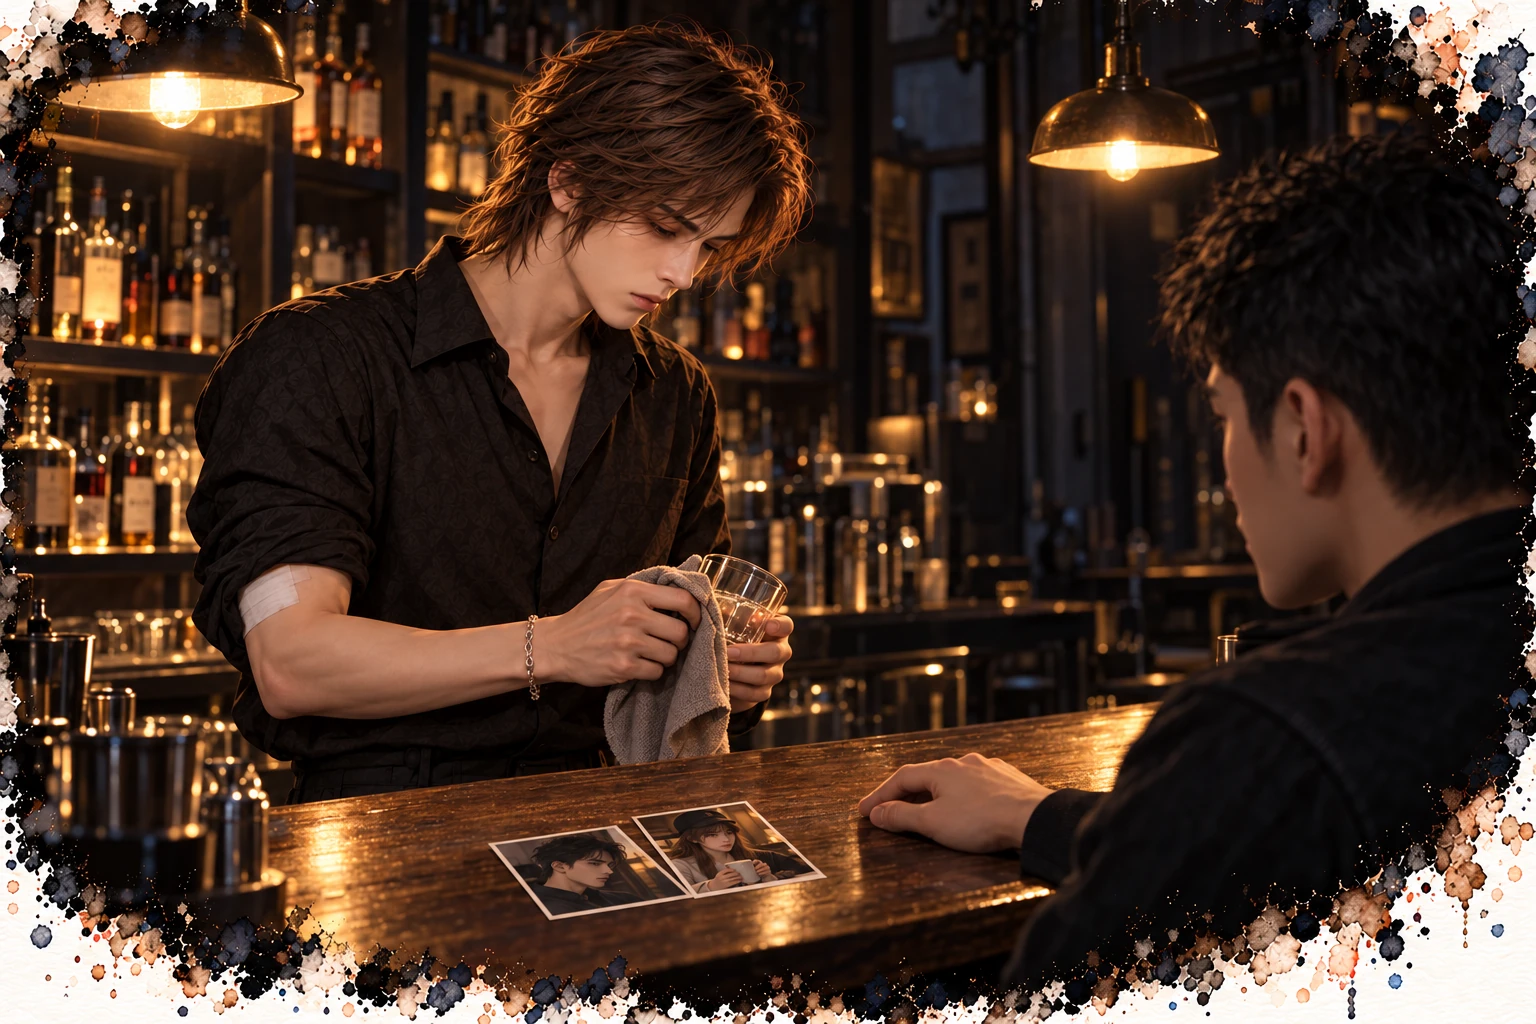
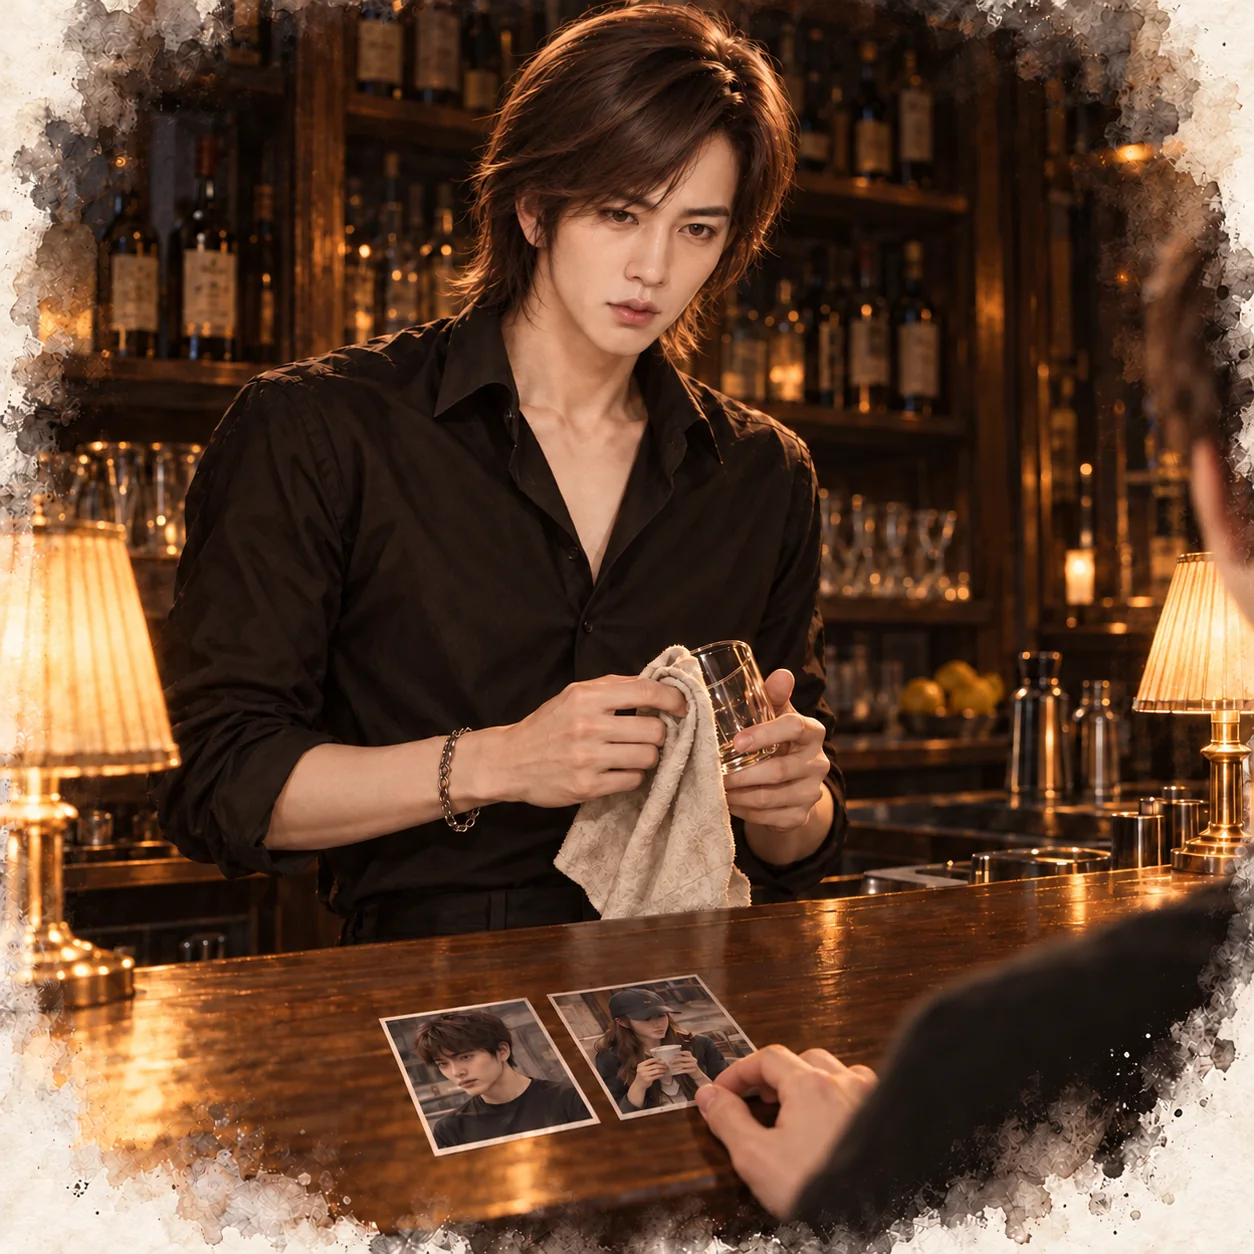
沒有招牌的酒吧 第一部第八章：替換江澈插圖
Claude-Session: https://claude.ai/code/session_01HUwf2ENyDuzceKaKYawxmj

diff --git a/novels/no-signboard-bar/chapter-08.html b/novels/no-signboard-bar/chapter-08.html
@@ -35,7 +35,7 @@
 <p>門關上了。</p>
 </section>
 <section class="pov pov-jiang" data-name="江澈">
-<div class="pov-opening"><h2 class="pov-title" id="pov-2"><span>敘事視角</span>江澈</h2><a class="pov-art" href="../../assets/novels/no-signboard-bar/chapter-08-jiang-che.webp" target="_blank" rel="noopener" aria-label="開啟江澈插圖大圖"><img src="../../assets/novels/no-signboard-bar/chapter-08-jiang-che.webp" alt="江澈在昏暗的酒吧擦著杯子，陸曜坐在對面，兩張照片平放在吧檯上。" width="1536" height="1024" loading="lazy" decoding="async"><span class="pov-cap">他們知道，要讓你聽話，最快的辦法就是她。</span></a><div class="pov-intro"><p>她那個問題，我想了一整個下午。不說，到底是在保護誰？</p>
+<div class="pov-opening"><h2 class="pov-title" id="pov-2"><span>敘事視角</span>江澈</h2><a class="pov-art" href="../../assets/novels/no-signboard-bar/chapter-08-jiang-che.webp?v=20261013" target="_blank" rel="noopener" aria-label="開啟江澈插圖大圖"><img src="../../assets/novels/no-signboard-bar/chapter-08-jiang-che.webp?v=20261013" alt="沒有放唱片的酒吧，江澈在吧檯後擦著一只杯子，吧檯上並排擺著兩張照片，一張是陸曜，一張是戴帽子捧著陶杯的林棠；陸曜的手指按在第二張的邊上。" width="1254" height="1254" loading="lazy" decoding="async"><span class="pov-cap">他們知道，要讓你聽話，最快的辦法就是她。</span></a><div class="pov-intro"><p>她那個問題，我想了一整個下午。不說，到底是在保護誰？</p>
 <p>晚上十點，我傳了訊息給陸曜。</p>
 <p>「上來。有東西給你看。」</p></div></div>
 <div class="scene-break" role="separator" aria-label="換場"><span></span><i>✦</i><span></span></div>
